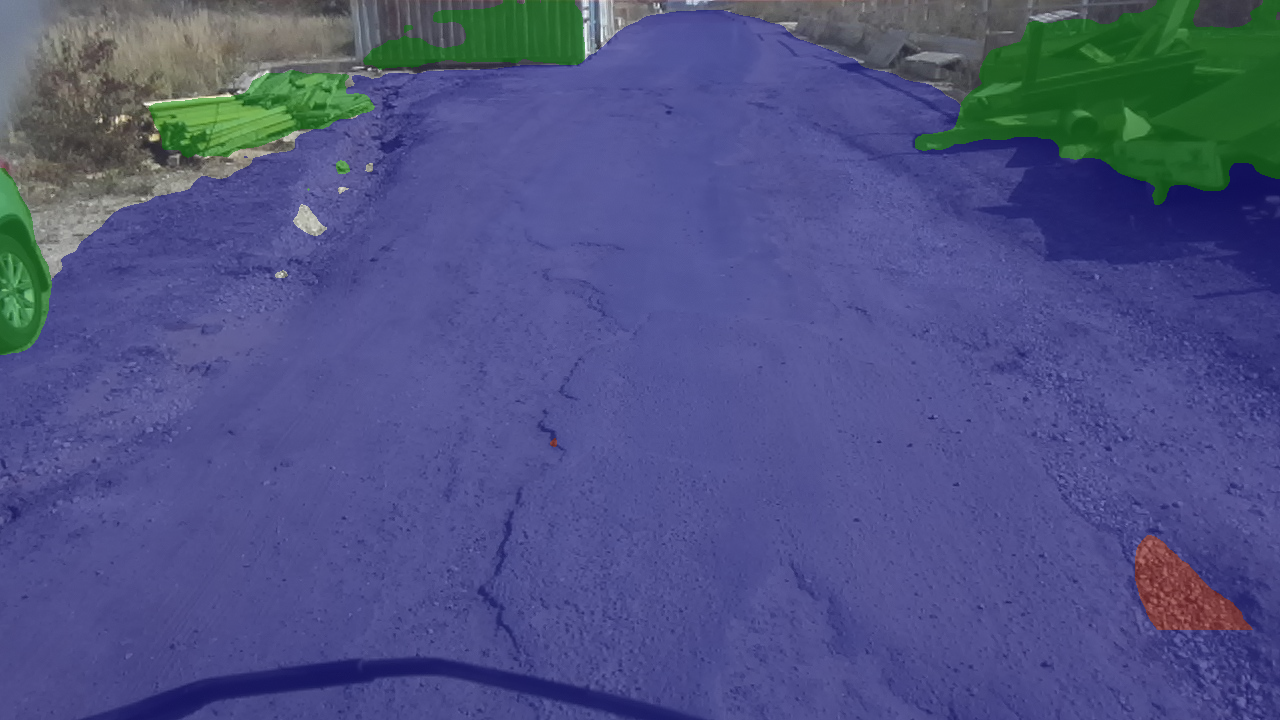
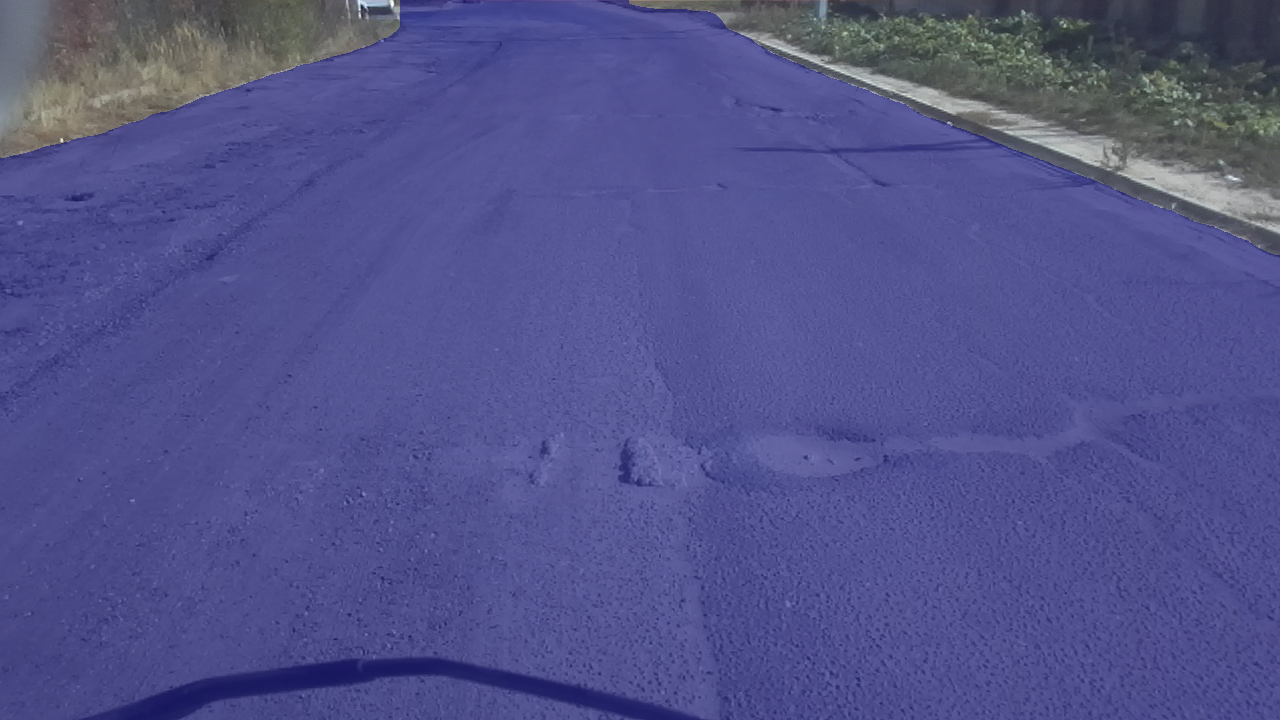
change for correct processing image with no obstacles

diff --git a/colcon_ws/src/semseg_ros2/semseg_ros2/obstacle_detection.py b/colcon_ws/src/semseg_ros2/semseg_ros2/obstacle_detection.py
@@ -85,8 +85,10 @@ class ObstacleDetection():
                 # processing_time = (end_time - start_time) * 1000  # в миллисекундах
                 # logger.info(f'Instance cutting: {processing_time:.2f} ms')
             # msg.num = len(msg.classes_ids)
-
-        scaled_masks = np.stack(instances_list, axis=0)
+        if len(instances_list)==0:
+            scaled_masks = instances_list
+        else:
+            scaled_masks = np.stack(instances_list, axis=0)
         # logger.info(f'Shape of tensor masks: {scaled_masks.shape}')
         rois = get_masks_rois(scaled_masks)
         masks_in_rois = get_masks_in_rois(scaled_masks, rois)
